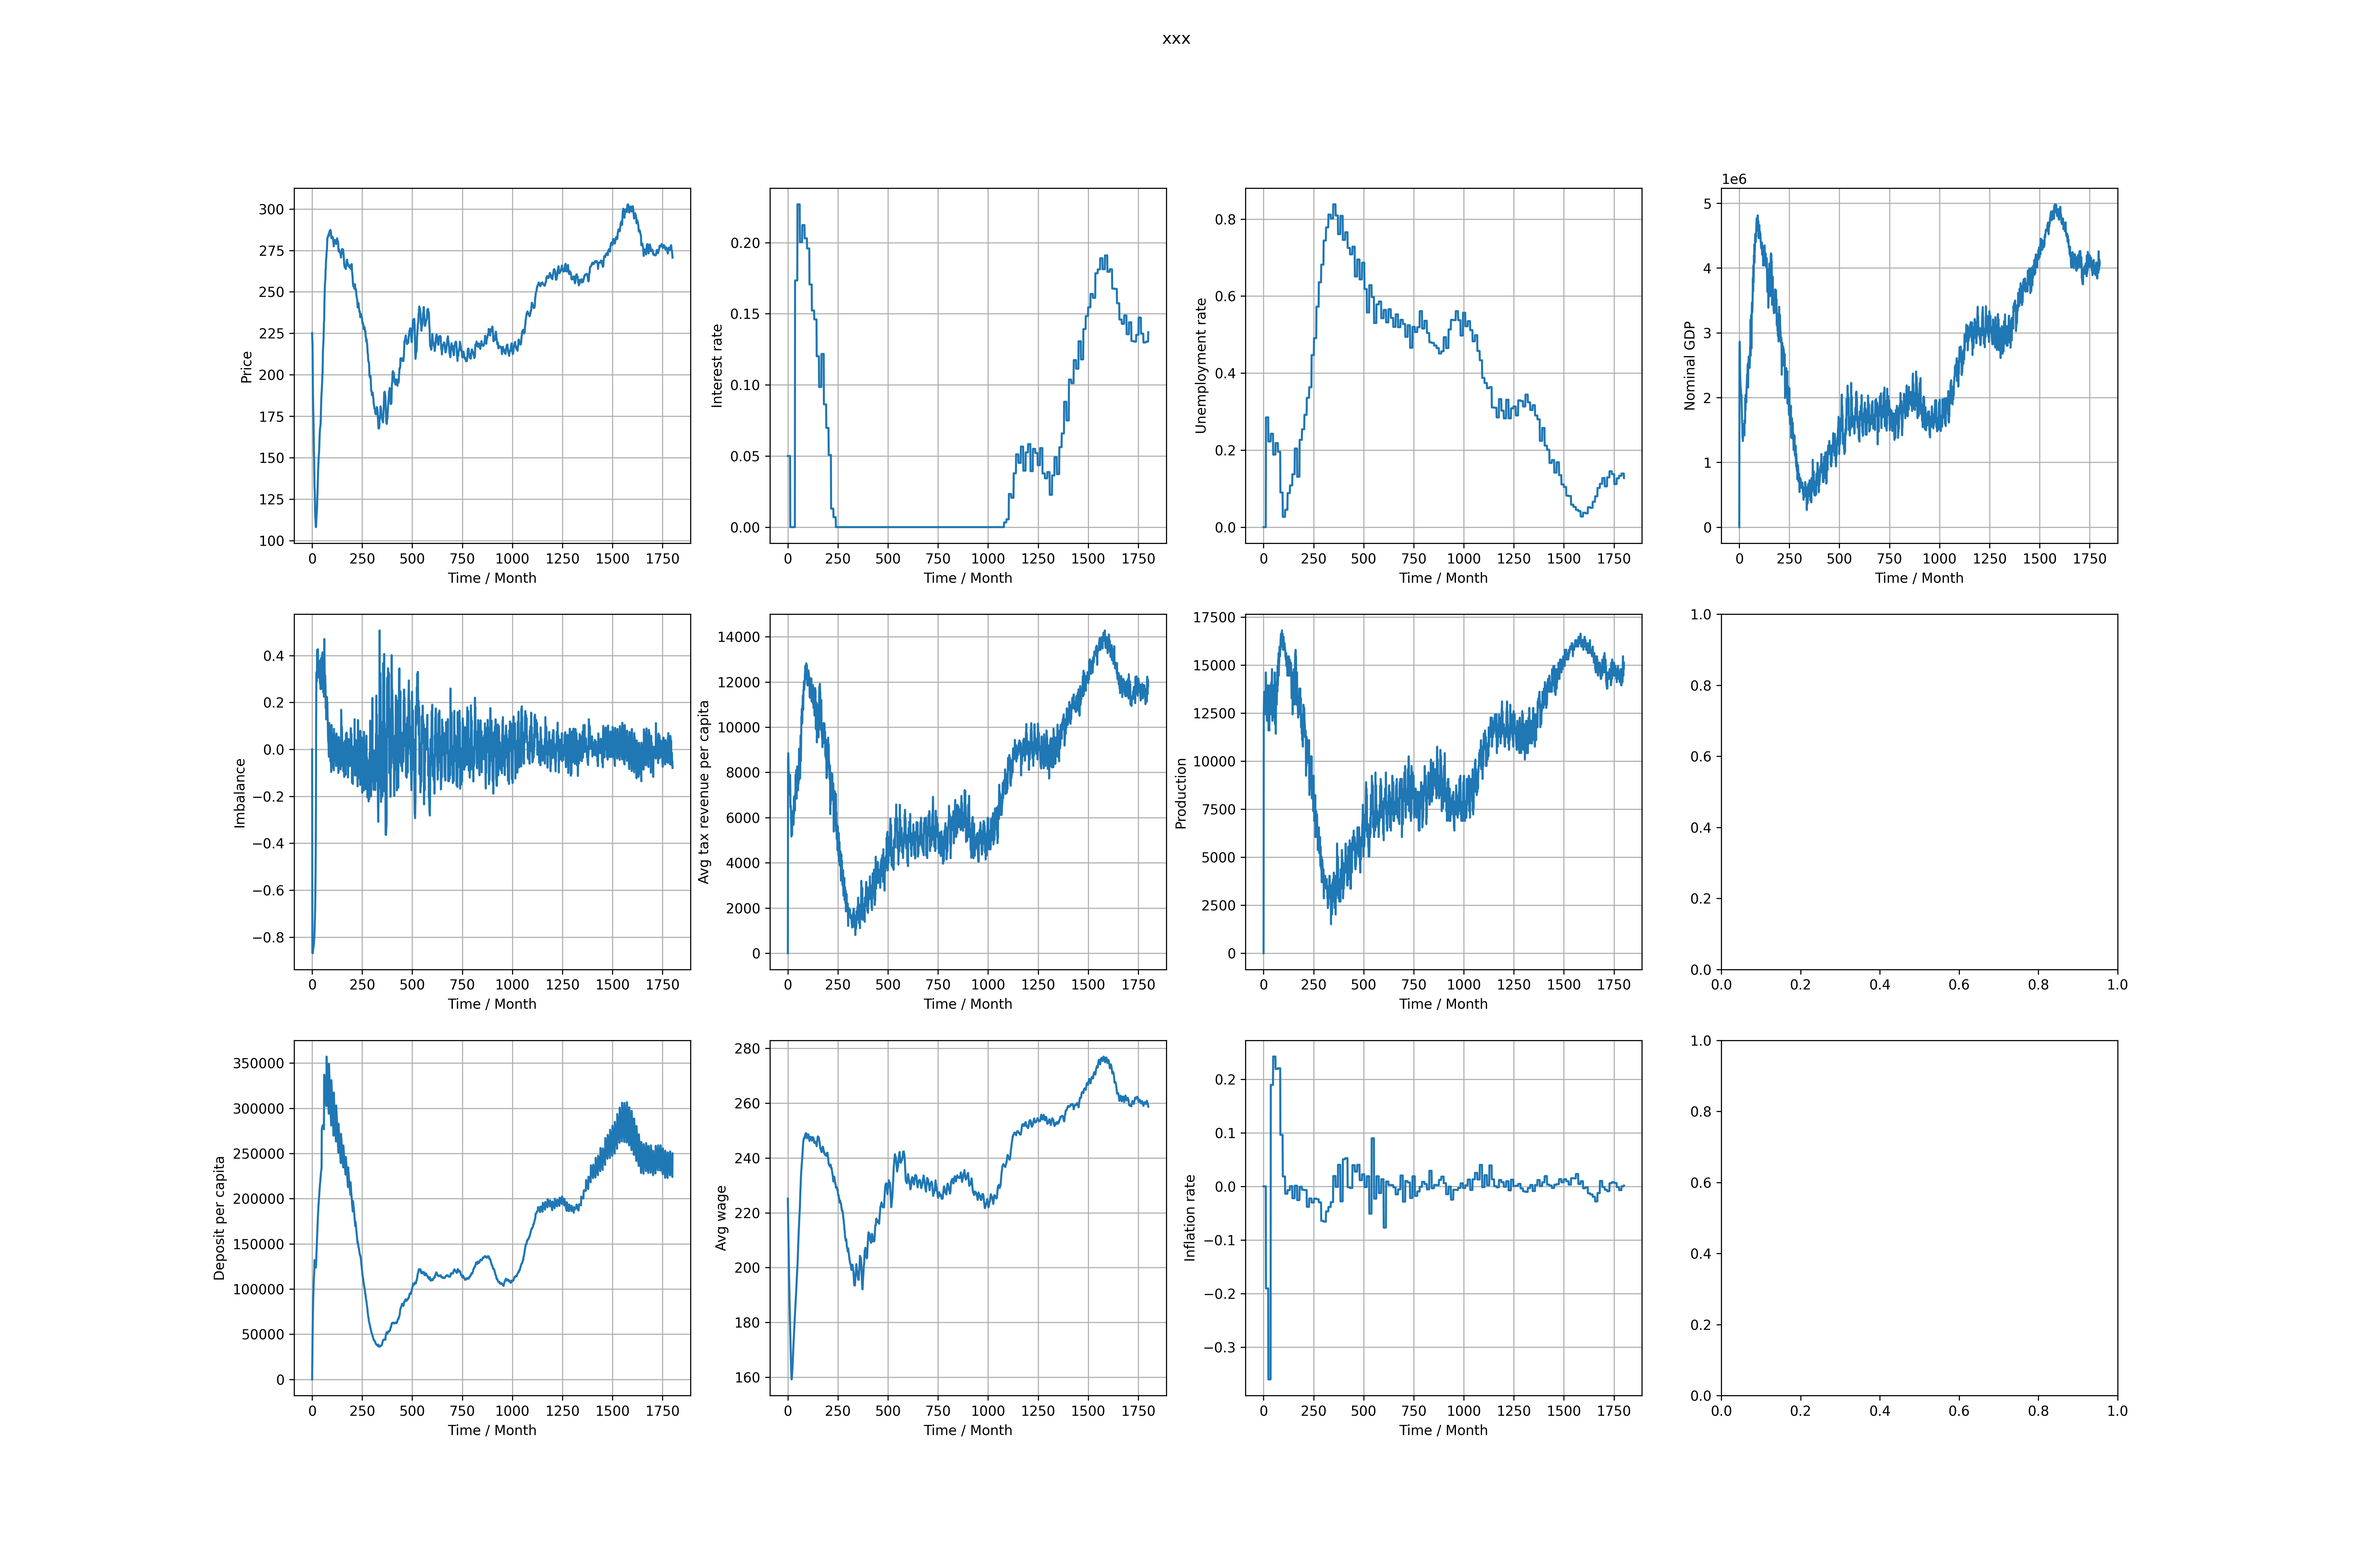
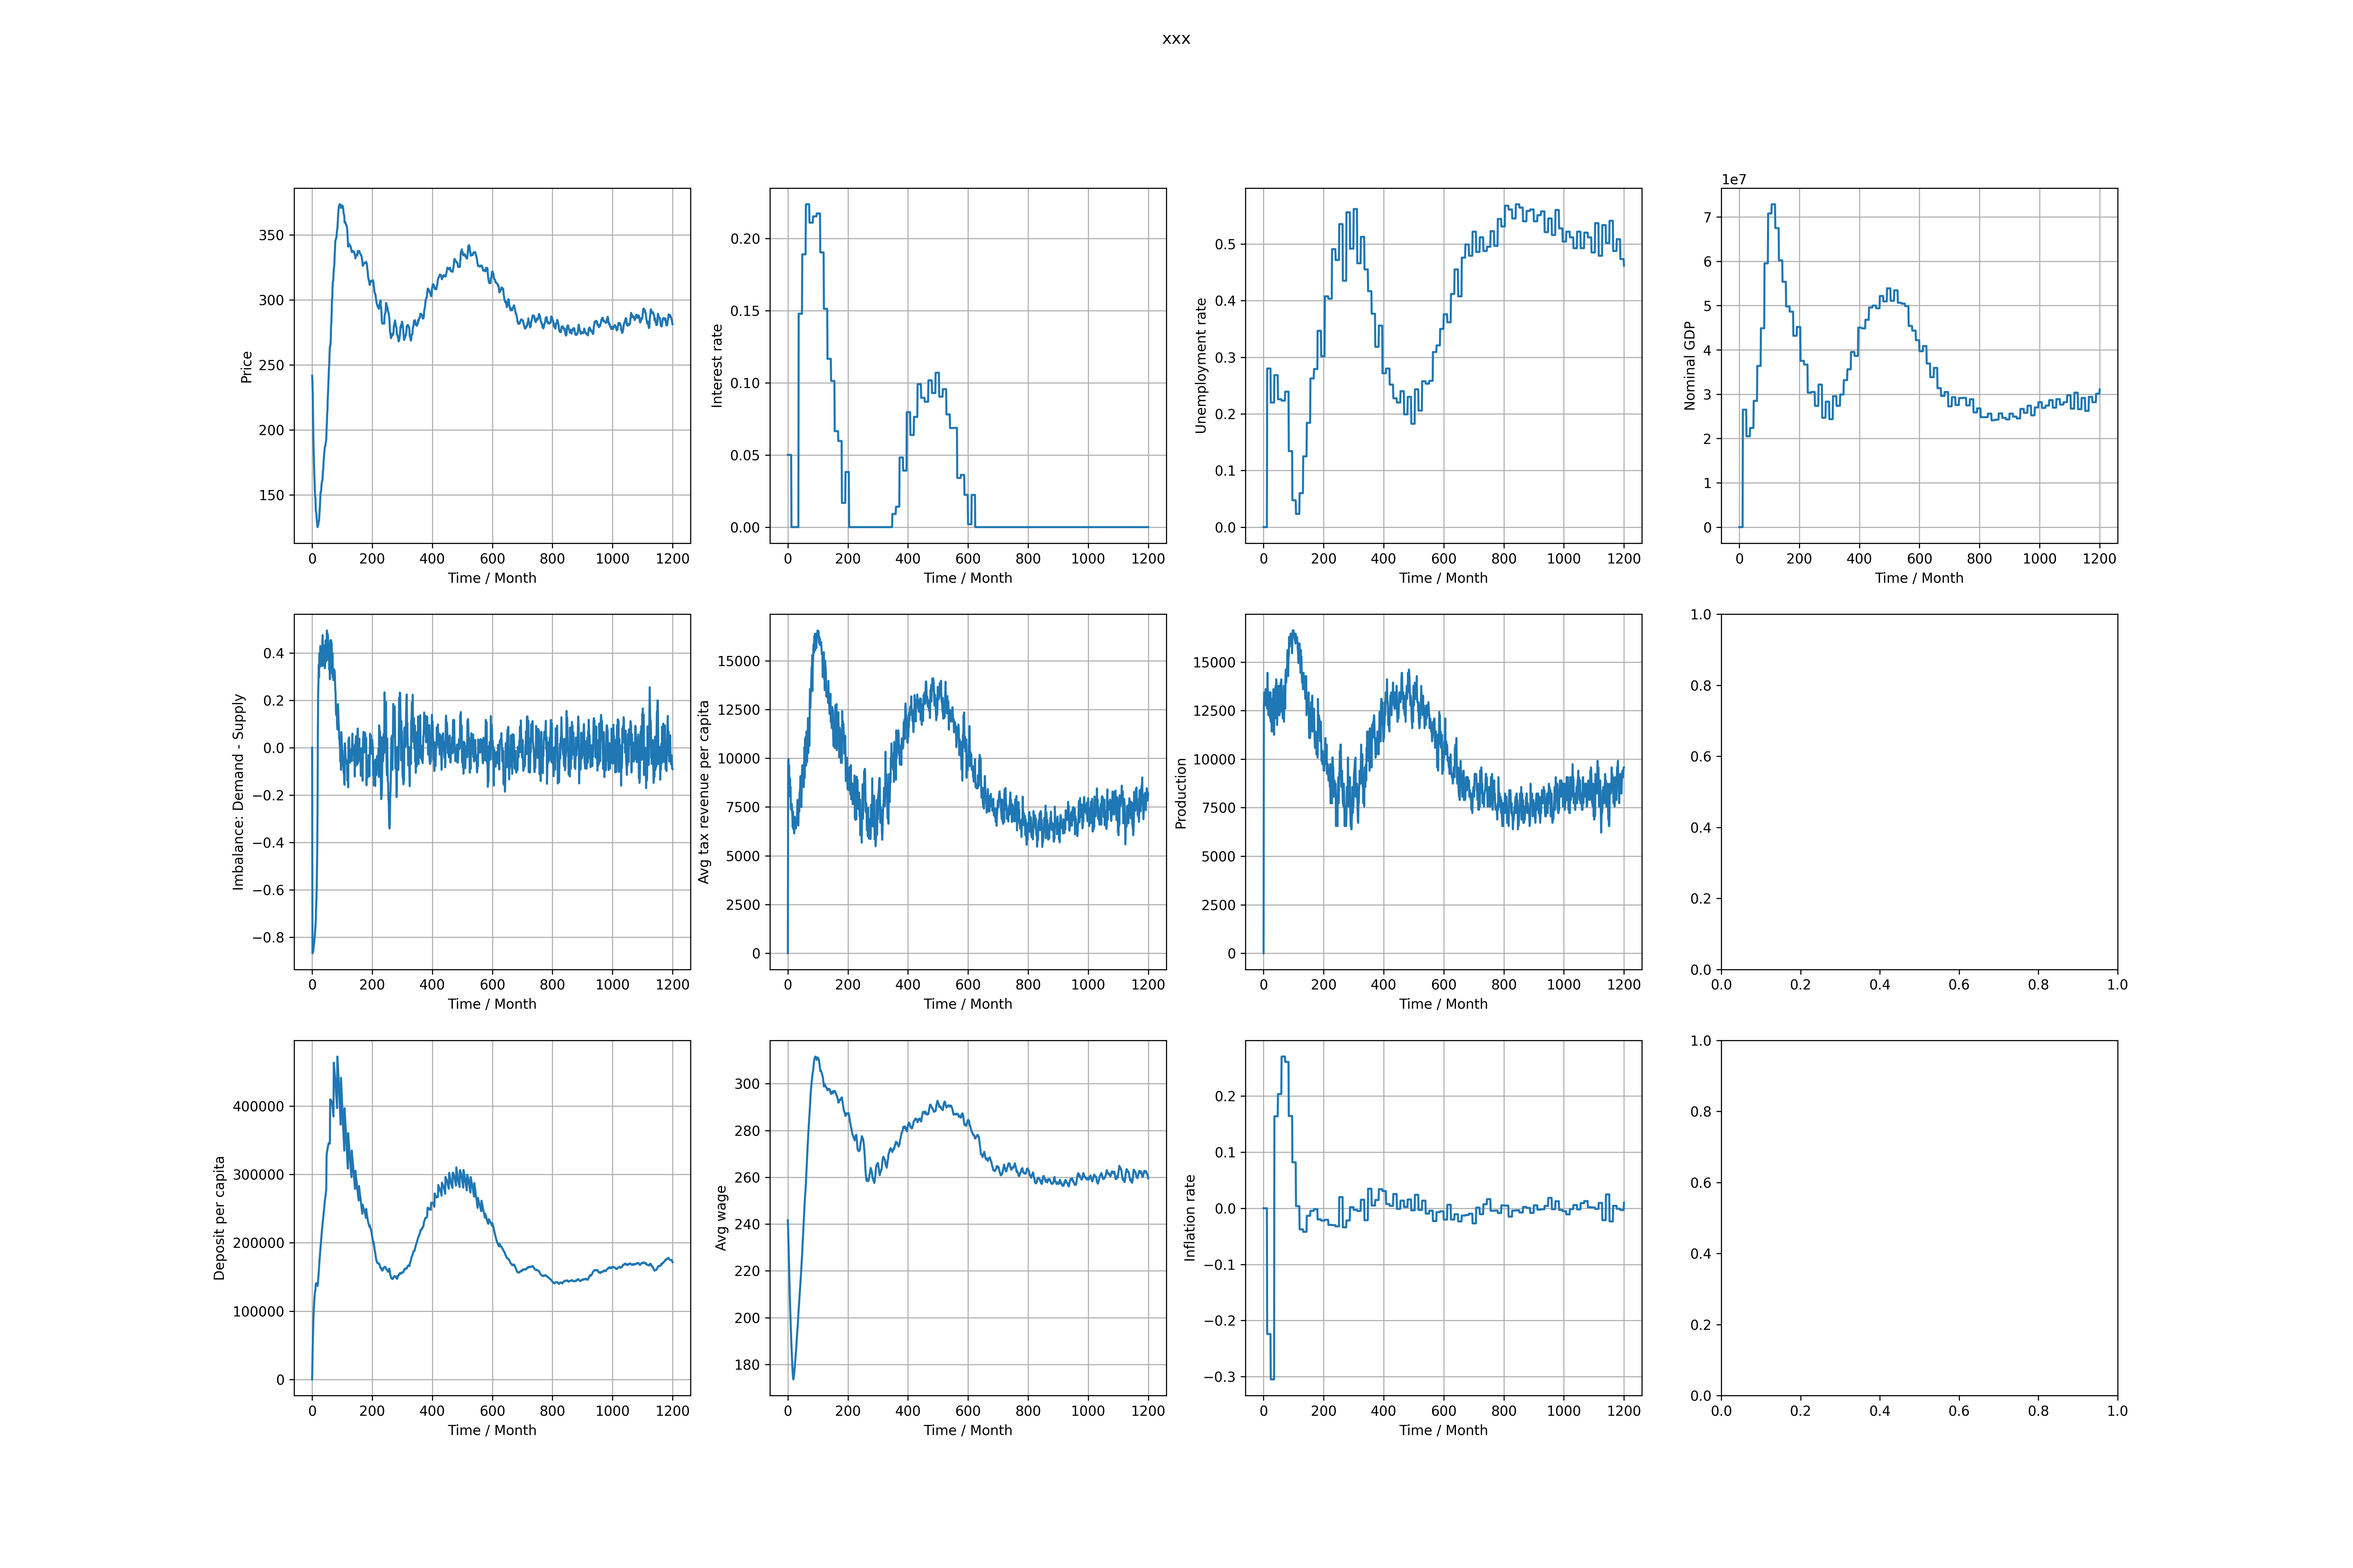
1

diff --git a/main.py b/main.py
@@ -90,8 +90,6 @@ class firm:
         self.G += production
         return production
     
-    
-    
     def wage_adjustment(self, agent_list:list[agent], imbalance:float):
         '''
         调整工资并不能刺激生产，需要补齐这个逻辑
@@ -147,6 +145,14 @@ class market:
         # print('imbalance:', D, firm.G)
         phi_bar = (D - G) / max(D, G)
         return phi_bar
+    
+    def GDP(self, log:dict):
+        '''
+        名义GDP = 总产量 * 价格
+        计算最近一年的名义GDP
+        '''
+        assert len(log) >= 12
+        return sum([log[key]['production'] * log[key]['price'] for key in list(log.keys())[-12:]])
 
 def simulation(config:Configuration):
     
@@ -166,8 +172,10 @@ def simulation(config:Configuration):
     F.P = np.mean([a.w for a in agents]) # t=0 initial price
     unem_rate = 0.
     infla_rate = 0.
+    Nominal_GDP = 0.
     log = {}
     log[0] = {
+        'year': 0,
         'work_state': [a.l for a in agents], 
         'wage': [a.w for a in agents],
         'price': F.P, 
@@ -179,7 +187,7 @@ def simulation(config:Configuration):
         'unemployment_rate': unem_rate,
         'deposit': {i: 0.0 for i in range(config.num_agents)},
         'avg_wage': sum([a.w for a in agents])/config.num_agents,
-        
+        'GDP': Nominal_GDP,
         }
     
     for t in range(1, config.num_time_steps+1):
@@ -236,10 +244,11 @@ def simulation(config:Configuration):
             unem_rate = M.unemployment(log)
             infla_rate = M.inflation(log)
             B.rate_adjustment(unem_rate, infla_rate) 
-            
+            Nominal_GDP = M.GDP(log)
         
         
         log[t] = {
+            'year': t // 12.1 + 1,
             'work_state': work_state, 
             'wage': [a.w for a in agents],
             'price': F.P, 
@@ -251,7 +260,7 @@ def simulation(config:Configuration):
             'unemployment_rate': unem_rate,
             'deposit': deepcopy(B.deposits),
             'avg_wage': sum([a.w for a in agents])/config.num_agents,
-            
+            'GDP': Nominal_GDP,
             }
         
         if t % 6 == 0 and t > 60:
@@ -308,13 +317,13 @@ if __name__ == '__main__':
     axs[0, 2].set_xlabel('Time / Month'); axs[0, 2].set_ylabel('Unemployment rate')
     axs[0, 2].grid()
     
-    axs[0, 3].plot([log[key]['production']*log[key]['price'] for key in log.keys()])
+    axs[0, 3].plot([log[key]['GDP'] for key in log.keys()])
     axs[0, 3].set_xlabel('Time / Month'); axs[0, 3].set_ylabel('Nominal GDP')
     axs[0, 3].grid()
     
 
     axs[1, 0].plot(imba_history)
-    axs[1, 0].set_xlabel('Time / Month'); axs[1, 0].set_ylabel('Imbalance')
+    axs[1, 0].set_xlabel('Time / Month'); axs[1, 0].set_ylabel('Imbalance: Demand - Supply')
     axs[1, 0].grid()
     
     axs[1, 1].plot(taxes_history)

diff --git a/config.py b/config.py
@@ -1,10 +1,18 @@
 from time import time
 class Configuration:
+    #####################################
+    ##           仿 真 参 数           ##
+    #####################################
     seed = int(time()) # 123
     num_agents = 100
-    num_time_steps = 12 * 150
+    num_time_steps = 12 * 100
     
-    A = 1.0
+    
+    #####################################
+    ##           企业模型参数           ##
+    #####################################
+    
+    A = 1.0         # 生产率
     alpha_w = 0.05
     alpha_p = 0.10
     
